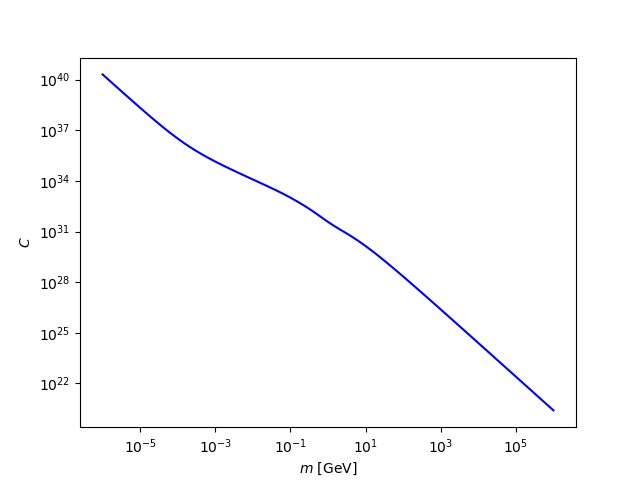
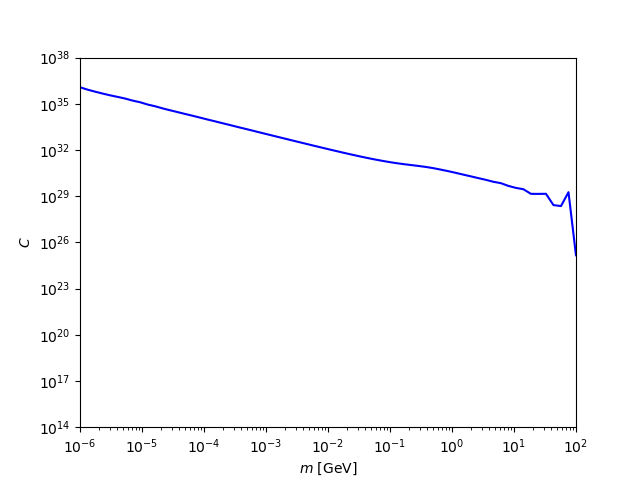
ok

diff --git a/cap_c/monte_carlo/py_read.py b/cap_c/monte_carlo/py_read.py
@@ -83,6 +83,7 @@ def cap_rate_plots():
     fig, ax1 = plt.subplots()
     ax1.loglog(domain, range, color='blue')
     ax1.set(xlabel = r'$m$ [GeV]', ylabel = r'$C$')
+    ax1.axis([1e-6, 1e2, 1e14, 1e38])
     plt.savefig('cap_rate_plot.png')
 
-single_plot('esc_vel')
+cap_rate_plots()
